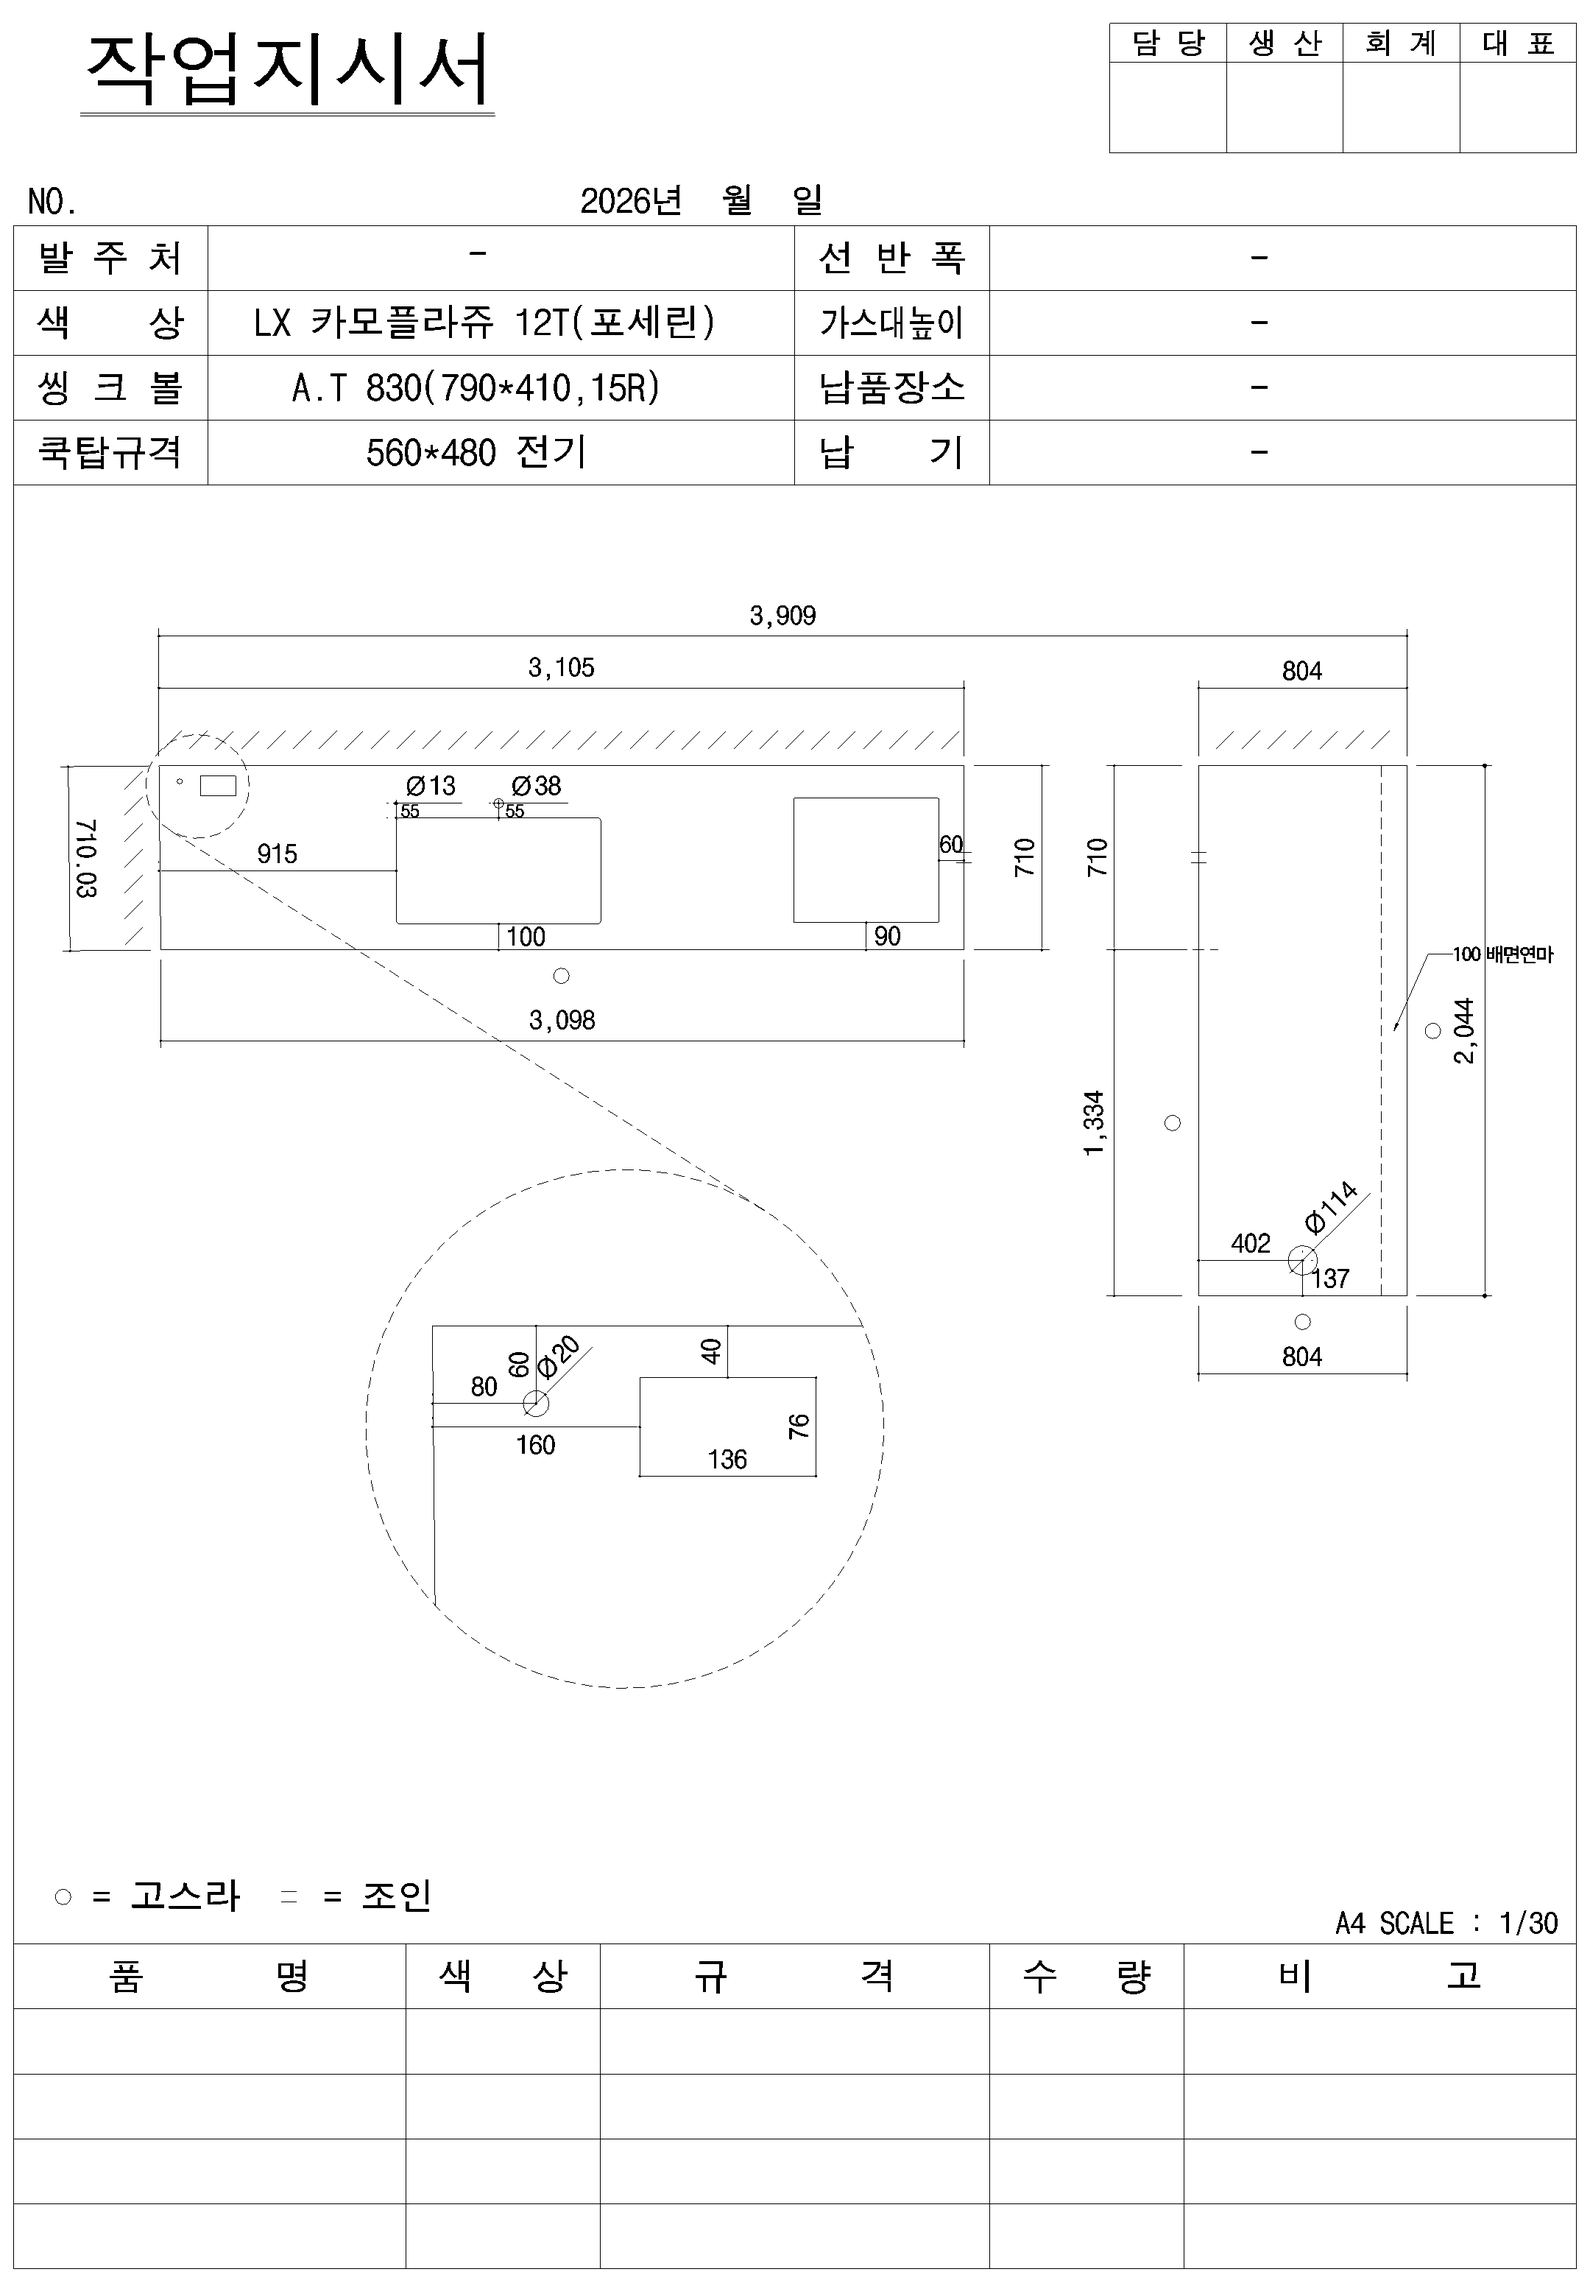
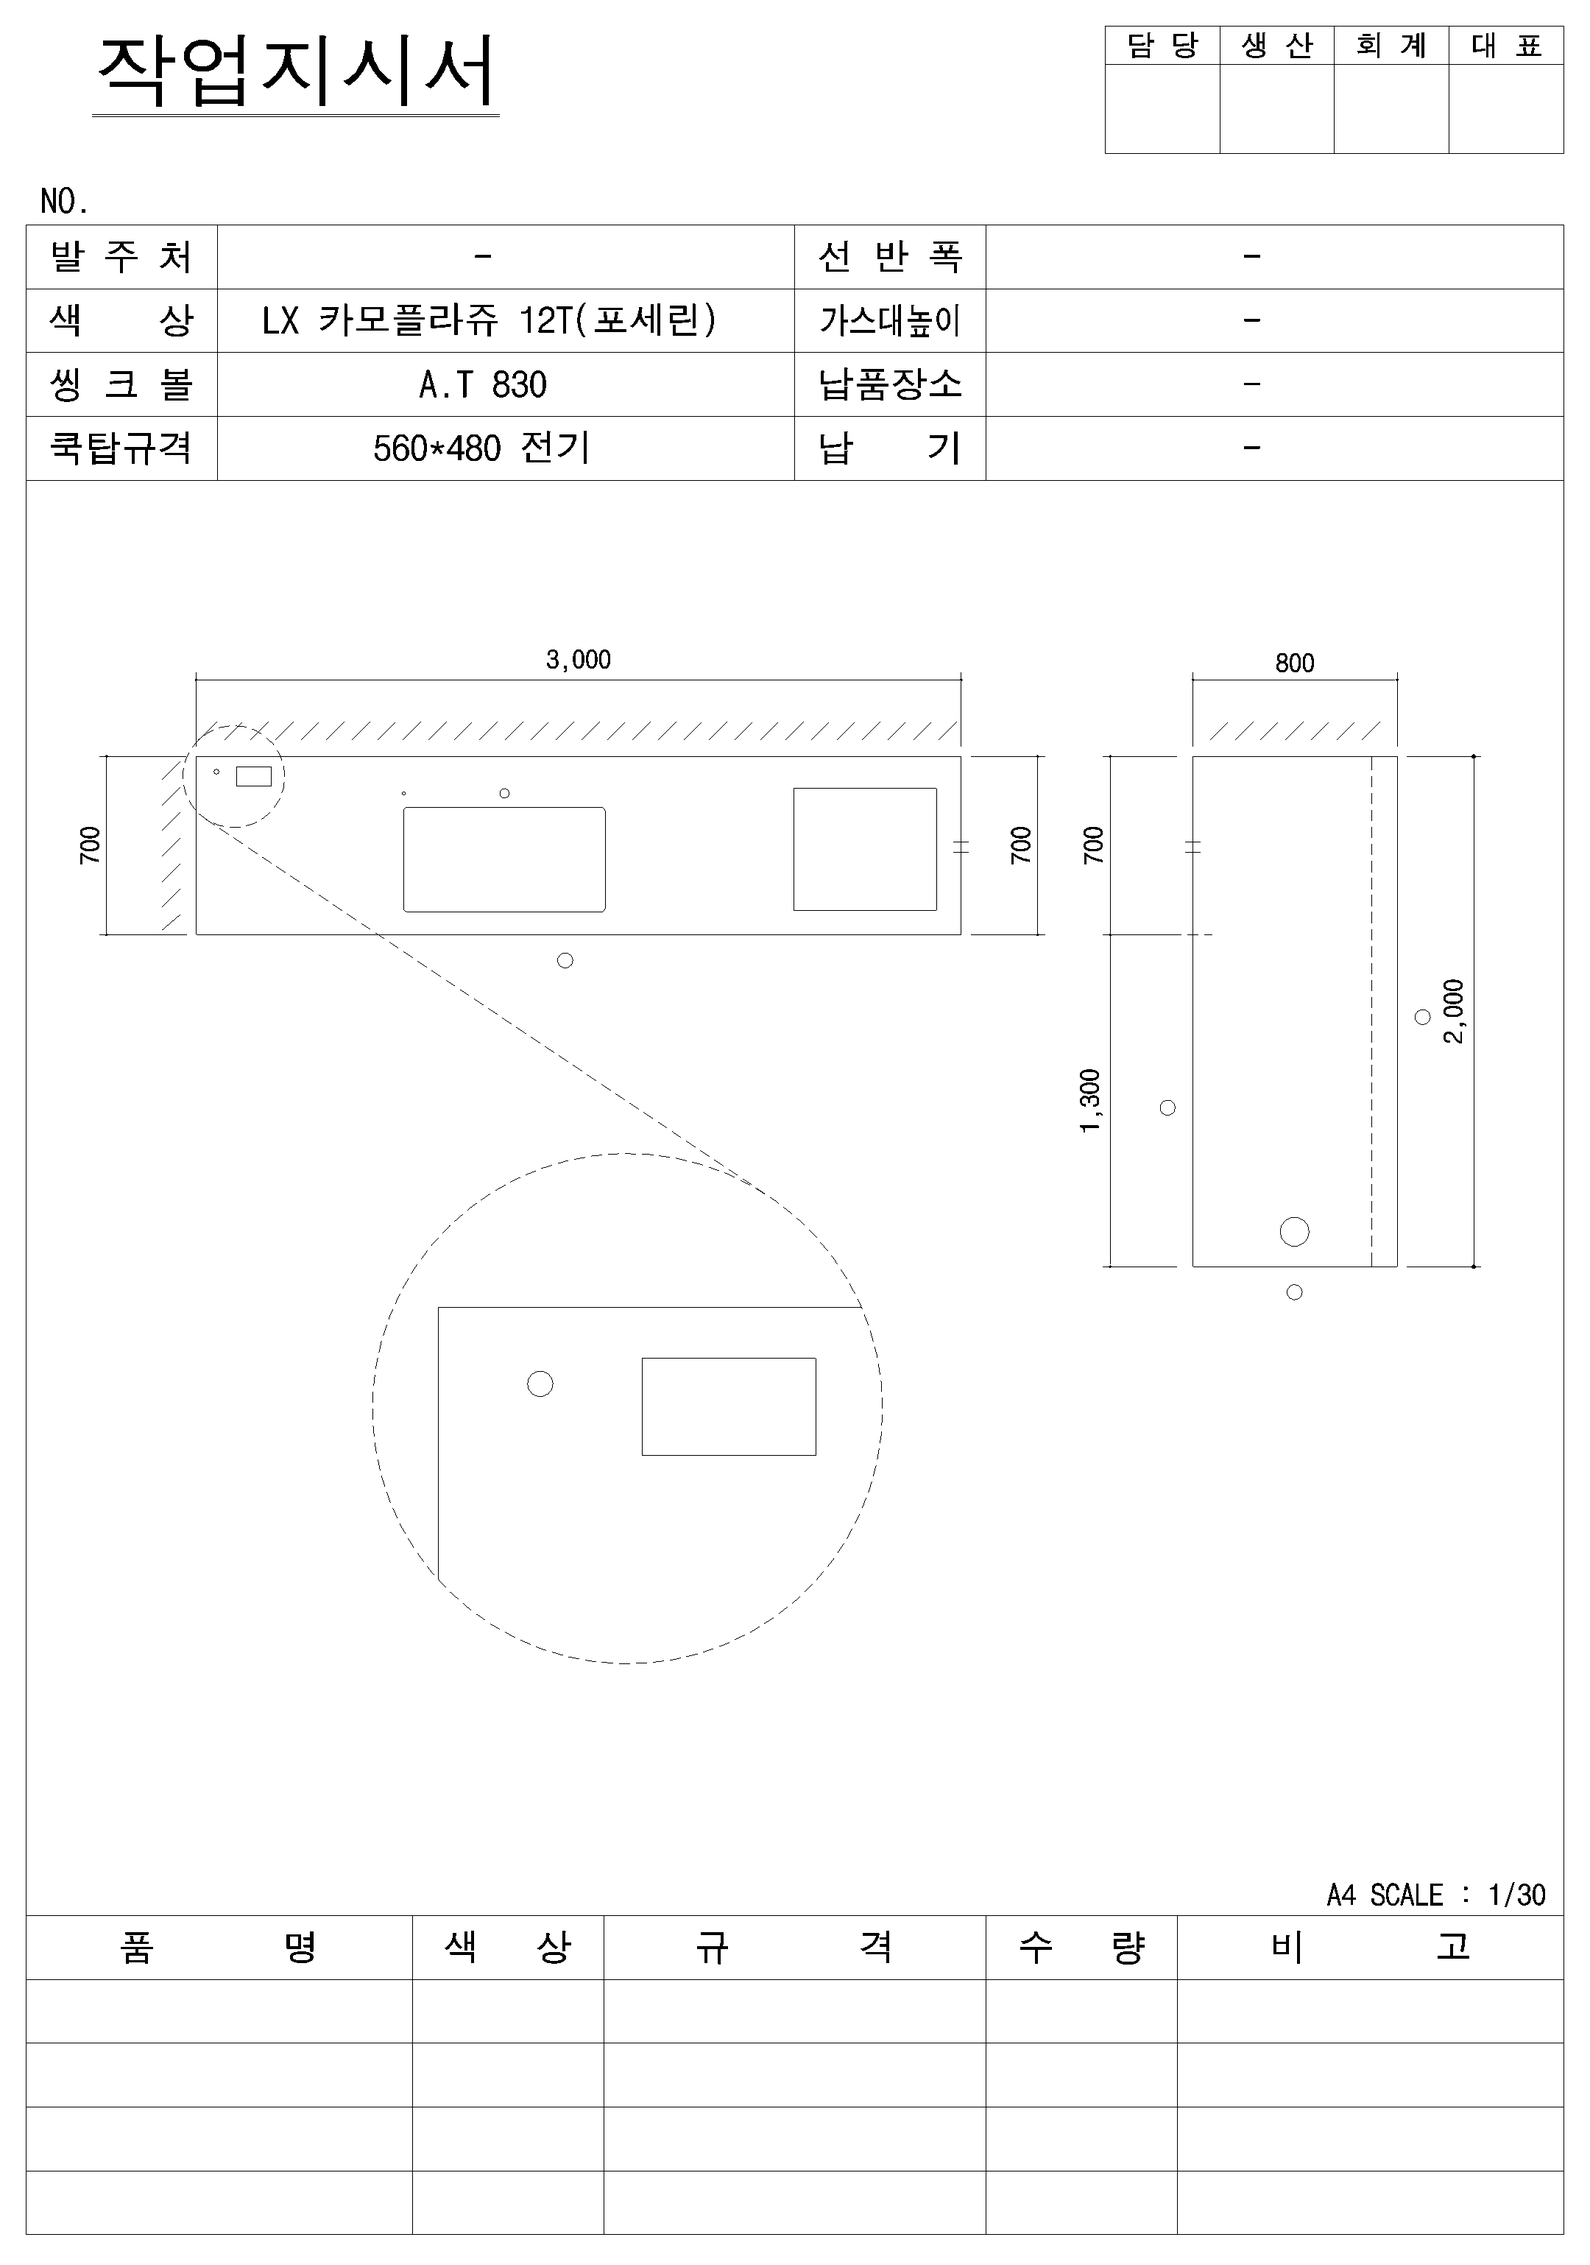
설비라인 도면작업/실측/재단 사진 교체
3개 단계 사진을 신규 이미지로 교체하고 웹 용량 최적화 적용.
- 도면작업.png: 신규 작업지시서 도면 (66KB)
- 실측.jpg: PNG 7.9MB -> JPEG 1800px 166KB
- 재단: JPG 280KB -> 164KB, 확장자 변경에 맞춰 재단.png 삭제 및 src 수정

diff --git a/scandi/facility.html b/scandi/facility.html
@@ -227,7 +227,7 @@ a:hover{color:#c9a24b}
         <div class="ft-title">재단</div>
         <div class="ft-photo-wrap">
           <div class="ft-num-bg">05</div>
-          <div class="ft-photo" style="background-image:url('images/facility/재단.png')"></div>
+          <div class="ft-photo" style="background-image:url('images/facility/재단.jpg')"></div>
         </div>
         <div class="ft-spec-tag">MAX 3200 × 1600 mm</div>
         <div class="ft-headline">도면 그대로, 오차 없이 잘라냅니다.</div>
